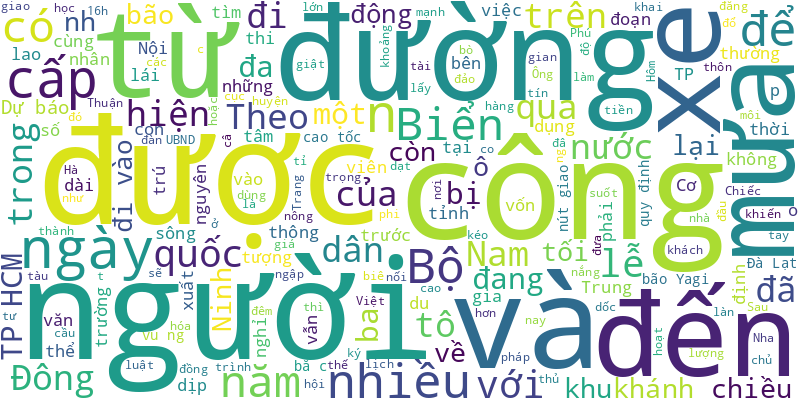
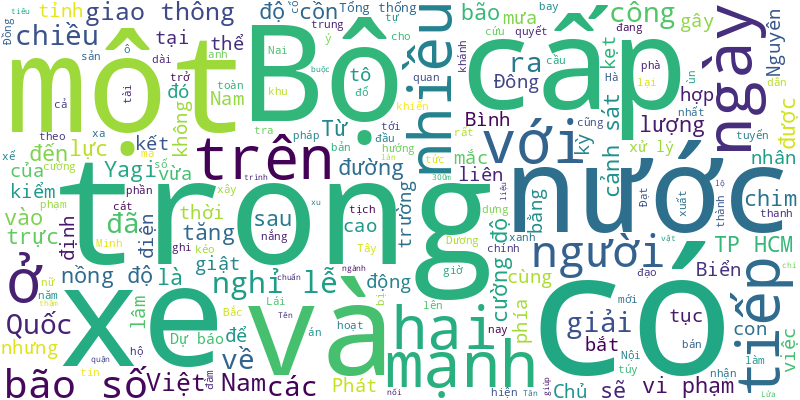
🍀 = 100%

diff --git a/README.md b/README.md
@@ -1,6 +1,9 @@
 # Tuoi Tre RSS 
 
 ## Giáo dục 
+- Chiều 3-9, Trường phổ thông cao đẳng FPT Polytechnic xác nhận giảng viên L.V.M.D. sẽ tiếp tục tham gia giảng dạy tại trường.
+- Lãnh đạo Tổng cục Giáo dục nghề nghiệp cho biết Vụ Nhà giáo thuộc Tổng cục đang kiểm tra vụ giảng viên Trường Phổ thông cao đẳng FPT bị cho thôi việc.
+- Trong ngày tựu trường 2-9, hơn 18 triệu trẻ em Nga và hàng triệu trẻ em Ukraine chính thức bước vào năm học mới, trong đó có nhiều trẻ em Ukraine đang tị nạn ở nước ngoài.
 - Là gen Z với những thế mạnh, năng lực riêng nhưng Trần Hương Lan, Lâm Nguyễn Thanh Thảo và Ngô An Hà Trang có chung niềm đam mê với môn STEM.
 - Theo Chính phủ Hà Lan, điện thoại di động và các thiết bị thông minh khác làm học sinh 'xao nhãng', làm giảm hiệu suất học tập và tương tác xã hội.
 - Không sử dụng bóng bay trong lễ khai giảng nhằm đảm bảo an toàn và góp phần bảo vệ môi trường. Đó là một trong những nội dung của công văn về chuẩn bị năm học mới do UBND quận 10, TP.HCM phát hành.
@@ -28,41 +31,38 @@
 - Mong muốn bảo toàn hương vị cà phê, nhóm sinh viên Trường đại học Bách khoa (Đại học Quốc gia TP.HCM) đã tìm ra phương pháp thủy nướng, giữ nguyên bản vị gốc và hàm lượng dinh dưỡng cao.
 - Đài truyền hình Việt Nam cùng Herbalife Việt Nam tiếp tục đồng hành cùng tổ chức mùa thứ hai chương trình truyền hình thực tế "Sinh viên thế hệ mới 2024"
 - Vinamilk trao giải thưởng đặc biệt cho các tài năng robot trong Robotacon WRO 2024.
-- Hai đơn vị ký kết hợp tác trên nhiều lĩnh vực, trong đó có các hoạt động phục vụ cộng đồng.
-- Phụ huynh ở nhiều nước châu Âu đang đối diện nhiều áp lực khi chi phí mua đồng phục và đồ dùng học tập cho con tăng cao trước thềm bắt đầu năm học mới 2024 - 2025.
-- Các trường mầm non, tiểu học trên địa bàn TP.HCM đã phát hiện 21 học sinh bị bệnh sởi trong tháng 8-2024.
 ![Edu](Edu.png)
 ## Thời Sự 
+- Từ sản xuất vật liệu xanh đến xây dựng các công trình xanh đang là xu hướng của ngành xây dựng trong nước, thậm chí trở thành tiêu chuẩn bắt buộc.
+- Đường Tên Lửa ở quận Bình Tân, TP.HCM đã được kéo dài ra 300m với 6 làn xe, giúp kết nối trực tiếp tỉnh lộ 10 với đường Kinh Dương Vương, giảm áp lực giao thông cho khu vực.
+- Rạng sáng nay (4-9), bão số 3 (Yagi) tiếp tục mạnh lên cấp 11, giật cấp 13. Dự báo trong 24 giờ tới, cường độ bão sẽ mạnh thêm 2 cấp.
+- Dù ở rất xa nhưng bão số 3 cũng gây ảnh hưởng gián tiếp khiến TP.HCM, Nam Bộ và Tây Nguyên có mưa to.
+- Một số tin tức đáng chú ý: Mưa cổ tức sau nghỉ lễ, có doanh nghiệp mạnh tay chi khủng 250%; Chủ chuỗi rạp chiếu phim Galaxy báo lỗ liêu xiêu; Ái nữ nhà chủ tịch bất động sản Phát Đạt muốn bán ra cả triệu cổ phần...
+- Hôm nay 4-9, thời tiết Bắc Bộ đến tận Bình Thuận ngày nắng, có nơi nắng nóng. Nam Bộ và Tây Nguyên mưa to.
+- Nhiều dự án tại Đà Nẵng đang vướng mắc liên quan pháp lý hoặc "mắc kẹt" trong các kết luận thanh tra, bản án: Cocobay, Golden Hills City, khu công nghệ thông tin tập trung...
+- Dự báo bão số 3 (Yagi) có thể đạt cường độ cấp 14, giật cấp 17 ở trên Biển Đông và có hai kịch bản đổ bộ vào đất liền Việt Nam.
+- Một vụ va chạm liên hoàn 5 ô tô vừa xảy ra trên cao tốc Phan Thiết - Dầu Giây, đoạn gần trạm thu phí khiến nhiều xe hư hỏng nặng, kẹt xe kéo dài.
+- Thời điểm kiểm tra, ô tô 5 chỗ chở 8 người, tài xế vi phạm nồng độ cồn, trên xe có chứa ma túy.
+- Hai cuộc điện đàm và hội đàm trực tuyến của Tổng Bí thư, Chủ tịch nước Tô Lâm diễn ra trong cùng chiều 3-9. Nhiều biện pháp tăng cường quan hệ giữa Việt Nam với hai nước đã được nêu ra.
+- 4 ngày nghỉ lễ 2-9, lực lượng cảnh sát giao thông toàn TP.HCM xử lý 5.845 trường hợp vi phạm, trong đó 1.743 trường hợp vi phạm nồng độ cồn.
+- Phát hiện con chim có mỏ lớn đậu trên nhánh cây, anh Đặng Minh Thắng đuổi nhưng chim không bay đi mà sau đó bay về phía mình, nên anh đã bắt lại rồi giao kiểm lâm. Tiếp nhận chim đưa về cứu hộ, kiểm lâm xác định đây là chim cao cát bụng trắng.
+- Tổng thống Guinea-Bissau Umaro Sissoco Embaló sẽ thăm Việt Nam từ ngày 5 đến 8-9, với nhiều hoạt động tại Hà Nội.
+- Cảnh sát giao thông hai tỉnh Tiền Giang và Bến Tre đã phối hợp nhịp nhàng, chặn một chiều, xả một chiều để giải phóng nhanh lượng xe ùn ứ, nhờ đó giải quyết được tình trạng kẹt xe cầu Rạch Miễu trong dịp lễ 2-9.
+- Tổng thống Mỹ Joe Biden nhấn mạnh cam kết ủng hộ một Việt Nam mạnh, độc lập, thịnh vượng và tự cường. Tổng thống Hàn Quốc, Indonesia, Philippines và lãnh đạo nhiều nước khác cũng đã có điện mừng Quốc khánh Việt Nam.
+- Một người làm việc tại Đội cảnh sát bảo vệ thuộc Trại giam A2 gây tai nạn giao thông, trong hơi thở có nồng độ cồn.
+- Chiều 3-9, dòng xe ào ạt về hướng phà Cát Lái (phía Đồng Nai về TP.HCM) sau kỳ nghỉ lễ 2-9 gây ùn tắc. Để giải tỏa bớt lượng xe cộ, nhân viên phà phải chia làm nhiều nhóm, bán vé từ xa.
+- Từ đầu giờ chiều 3-9, khắp các cửa ngõ, tuyến đường chính của Hà Nội, người dân bắt đầu trở lại sau kỳ nghỉ lễ Quốc khánh 2-9.
+- Dự báo mới nhất cho thấy bão số 3 (bão Yagi) là một trong những cơn bão mạnh nhất năm 2024 hoạt động trên Biển Đông, có khả năng sẽ đổ bộ trực tiếp vào các tỉnh Bắc Bộ ở cường độ rất mạnh.
+- So với cùng kỳ năm 2023, số tài xế vi phạm nồng độ cồn bị xử lý trong 4 ngày nghỉ lễ tăng 6.997 trường hợp.
+- Bộ Công an đề xuất quy định mới giải quyết việc phạm nhân có nguyện vọng hiến mô, một phần bộ phận cơ thể con người.
+- Thủ tướng Phạm Minh Chính vừa ký ban hành công điện chỉ đạo về việc khẩn trương triển khai ứng phó bão số 3.
+- Qua 4 ngày nghỉ lễ 2-9, khách du lịch trong và ngoài nước đến Phú Quốc có tăng nhưng không cao, nguyên nhân do đâu?
+- Trong 2 ngày tới, bão số 3 (bão Yagi) sẽ liên tục tăng cường độ, có thể lên cấp 13, giật cấp 16 khi vào vùng biển phía đông đảo Hải Nam (Trung Quốc).
+- Các bằng lái xe gồm bằng B1 cấp trước ngày Luật Trật tự, an toàn giao thông đường bộ có hiệu lực được tiếp tục sử dụng theo thời hạn ghi trên bằng.
+- Hai học sinh lớp 5 ở Bình Phước vào đập nước chơi không may bị nước cuốn, cả hai cùng chết đuối thương tâm.
+- Cảnh sát dừng một thanh niên dùng chân điều khiển xe máy để xử lý thì phát hiện người này dương tính với chất ma túy.
+- Đồng Nai vừa ghi nhận ca mắc bệnh Whitmore (còn gọi là 'vi khuẩn ăn thịt người') ở bé gái 14 tuổi.
 - Lực lượng dân quân thường trực giải cứu thành công người phụ nữ bế theo con nhỏ có ý định nhảy cầu.
-- Sáng nay (3-9), bão Yagi đi vào vùng biển phía đông bắc của khu vực Bắc Biển Đông, trở thành cơn bão số 3 trong năm 2024. Dự báo bão có thể mạnh cấp 13, giật cấp 16.
-- Hai người nước ngoài dùng nhiều thủ đoạn tinh vi lừa đảo, lấy cắp thông tin, chiếm đoạt, sử dụng thẻ tín dụng của nhiều người để mua hàng hóa giá trị cao rồi bán lại lấy tiền.
-- Trong sổ tay phóng viên của tôi, bốn chữ "hội nhập quốc tế" xuất hiện từ những năm 1990. Tuy nhiên, để đến được cụm từ hay lạ đó, Việt Nam đã phải chòi đạp khai phá con đường đổi mới và mở cửa từ năm 1986.
-- Ông Hùng Ky lùa đàn bò đi suốt trên cánh đồng nắng An Hải (huyện Ninh Phước, tỉnh Ninh Thuận). Đàn bò tìm cỏ, tìm nước, còn ông tìm đường thoát nghèo.
-- Hôm nay 3-9, thời tiết Bắc Bộ hửng nắng, về chiều có mưa dông. Trung Bộ mưa rào còn Nam Bộ, Tây Nguyên mưa to chiều tối.
-- Chiếc ô tô 7 chỗ lao nhanh, lấn qua làn ngược lại, tông hàng loạt xe máy đang đậu bên đường.
-- Eurowindow Nha Trang đầu tư tại khu du lịch bắc bán đảo Cam Ranh, hiện đã nộp lại hơn 11 tỉ đồng tiền thuê đất dự án vốn trước đó được tỉnh Khánh Hòa ưu đãi miễn 10 năm trái quy định pháp luật.
-- Tối 2-9, người dân TP.HCM đổ về trung tâm thành phố để vui chơi và xem bắn pháo hoa mừng 79 năm Quốc khánh 2-9.
-- Dự báo khoảng đêm 3-9, bão Yagi đi vào Biển Đông và gió mạnh tối đa có thể lên tới cấp 12, giật cấp 15 vùng gần tâm bão.
-- Từ ngày 5-9, đường Nguyễn Văn Bứa (đoạn từ Khu công nghiệp Nhị Xuân đến Ngã Ba Giồng) sẽ cấm xe đầu kéo theo hướng Long An đi TP.HCM trong khoảng thời gian từ 6h-8h, 11h-13h, 16h-18h.
-- Đang đổ dốc thì mất phanh, tài xế xe khách đã lao vào cổng nhà dân bên đường để tránh dòng xe đang chờ đèn đỏ ở chân dốc.
-- Một chiếc sà lan chở cát, gạch chạy đến khu vực biển thuộc xã đảo Hòn Tre (Kiên Giang) thì bị chìm khiến ba thuyền viên trôi dạt trên biển nhiều giờ.
-- Thời gian qua, nhiều bạn đọc phản ánh đến Tuổi Trẻ Online việc đăng ký học lái ô tô mà đợi mãi không được xếp lịch đi học và thi.
-- Nhiều người quay trở lại Hà Nội sớm một ngày dù chưa hết kỳ nghỉ lễ. Trên cao tốc Pháp Vân, cảnh sát giao thông dùng mô tô đặc chủng để tuần tra, chặn xe đi vào làn khẩn cấp.
-- Đến 16h ngày 2-9, nhiều tuyến đường ở TP Thủ Đức, TP.HCM vẫn bị ngập sâu do trận mưa lớn chiều hôm trước. Một số đường bị ngập nước cục bộ, đẩy người dân vào thế buộc phải để xe lội nước.
-- Trong Lễ hội sầu riêng huyện Krông Pắk (Đắk Lắk) lần 2, người dân và du khách vô cùng ấn tượng với sự xuất hiện của con rồng dài 120m đang được xác lập kỷ lục.
-- Bên cạnh việc chắc tay súng, chủ động, sẵn sàng, cán bộ, chiến sĩ nhà giàn DK 1 còn tham gia nhiều hoạt động văn hóa, thể thao dịp lễ Quốc khánh 2-9.
-- Sau một năm khai thác, kênh đào Nghĩa Hưng nối sông Đáy với sông Ninh Cơ tại Nam Định đã giúp gần 12.800 lượt tàu tải trọng đến 3.000 tấn qua lại, giảm được 5 tiếng trên 80km đường sông quanh co, chật hẹp.
-- Đi làm dịp nghỉ lễ Quốc khánh 2-9, người lao động được nhận tiền lương cao hơn so với ngày thường, vậy cụ thể công thức tính như thế nào?
-- Ba ngày vừa qua, tại TP.HCM và các tỉnh Nam Bộ mưa to, có nơi mưa rất to, bão có phải nguyên nhân khiến mưa dai dẳng?
-- Cơ quan chuyên môn của tỉnh Khánh Hòa nghi ngờ lượng dầu vón cục dạt vào biển Nha Trang trong những ngày qua xuất phát từ các tàu viễn dương.
-- Nút giao An Phú vốn đầu tư 3.400 tỉ đồng được đánh giá là nút giao hiện đại bậc nhất TP.HCM. Cùng với một số công trình trọng điểm khác, dịp lễ 2-9 này, nút giao An Phú vẫn được thi công xuyên suốt, không nghỉ.
-- Theo quyết định về tín dụng thực hiện cấp nước sạch và vệ sinh môi trường nông thôn, đối tượng vay vốn là hộ gia đình cư trú tại vùng nông thôn nơi đăng ký thường trú hoặc tạm trú.
-- Trên công trường cao tốc Quảng Ngãi - Hoài Nhơn những ngày lễ 2-9 vẫn nườm nượp công nhân, kỹ sư làm việc. Cả nghìn người cùng xe cơ giới, thiết bị căng mình thi công, gắng đưa cao tốc về đích đúng hoặc vượt tiến độ.
-- Theo Trung tâm Dự báo khí tượng thủy văn quốc gia ngày 2-9, ở vùng biển phía đông đảo Luzon (Philippines) có bão Yagi đang hoạt động với cường độ mạnh cấp 8, giật cấp 11. Dự báo chiều tối mai bão đi vào Biển Đông.
-- Sở Tài nguyên và Môi trường trình UBND TP Hà Nội dự thảo quy định điều kiện tách thửa, hợp thửa và diện tích, kích thước tối thiểu được tách với từng loại đất.
-- Đoạn quốc lộ 20 nối nội ô Đà Lạt - Cầu Đất dẫn đi Ninh Thuận sau đêm mưa lớn kéo dài bị sạt lở dài 18m.
-- Theo quy định của Luật Trật tự, an toàn giao thông đường bộ, bằng lái xe hạng B1 được cấp từ 1-1-2025 sẽ không còn được lái ô tô như trước đây.
-- Chủ tịch UBND TP Đà Lạt Đặng Quang Tú đã gởi thư đến Công ty Chang Shin Việt Nam để cảm ơn, vì đã dành quỹ phúc lợi đưa nhân viên đến Đà Lạt du lịch.
 ![New](News.png)
 ## Nhịp sống số 
 - Xã hội Trí tuệ nhân tạo được phác thảo là một xã hội ứng dụng sâu rộng trí tuệ nhân tạo vào mọi mặt chính trị, xã hội, kinh tế, khoa học công nghệ, kinh doanh, văn hóa, giáo dục.
